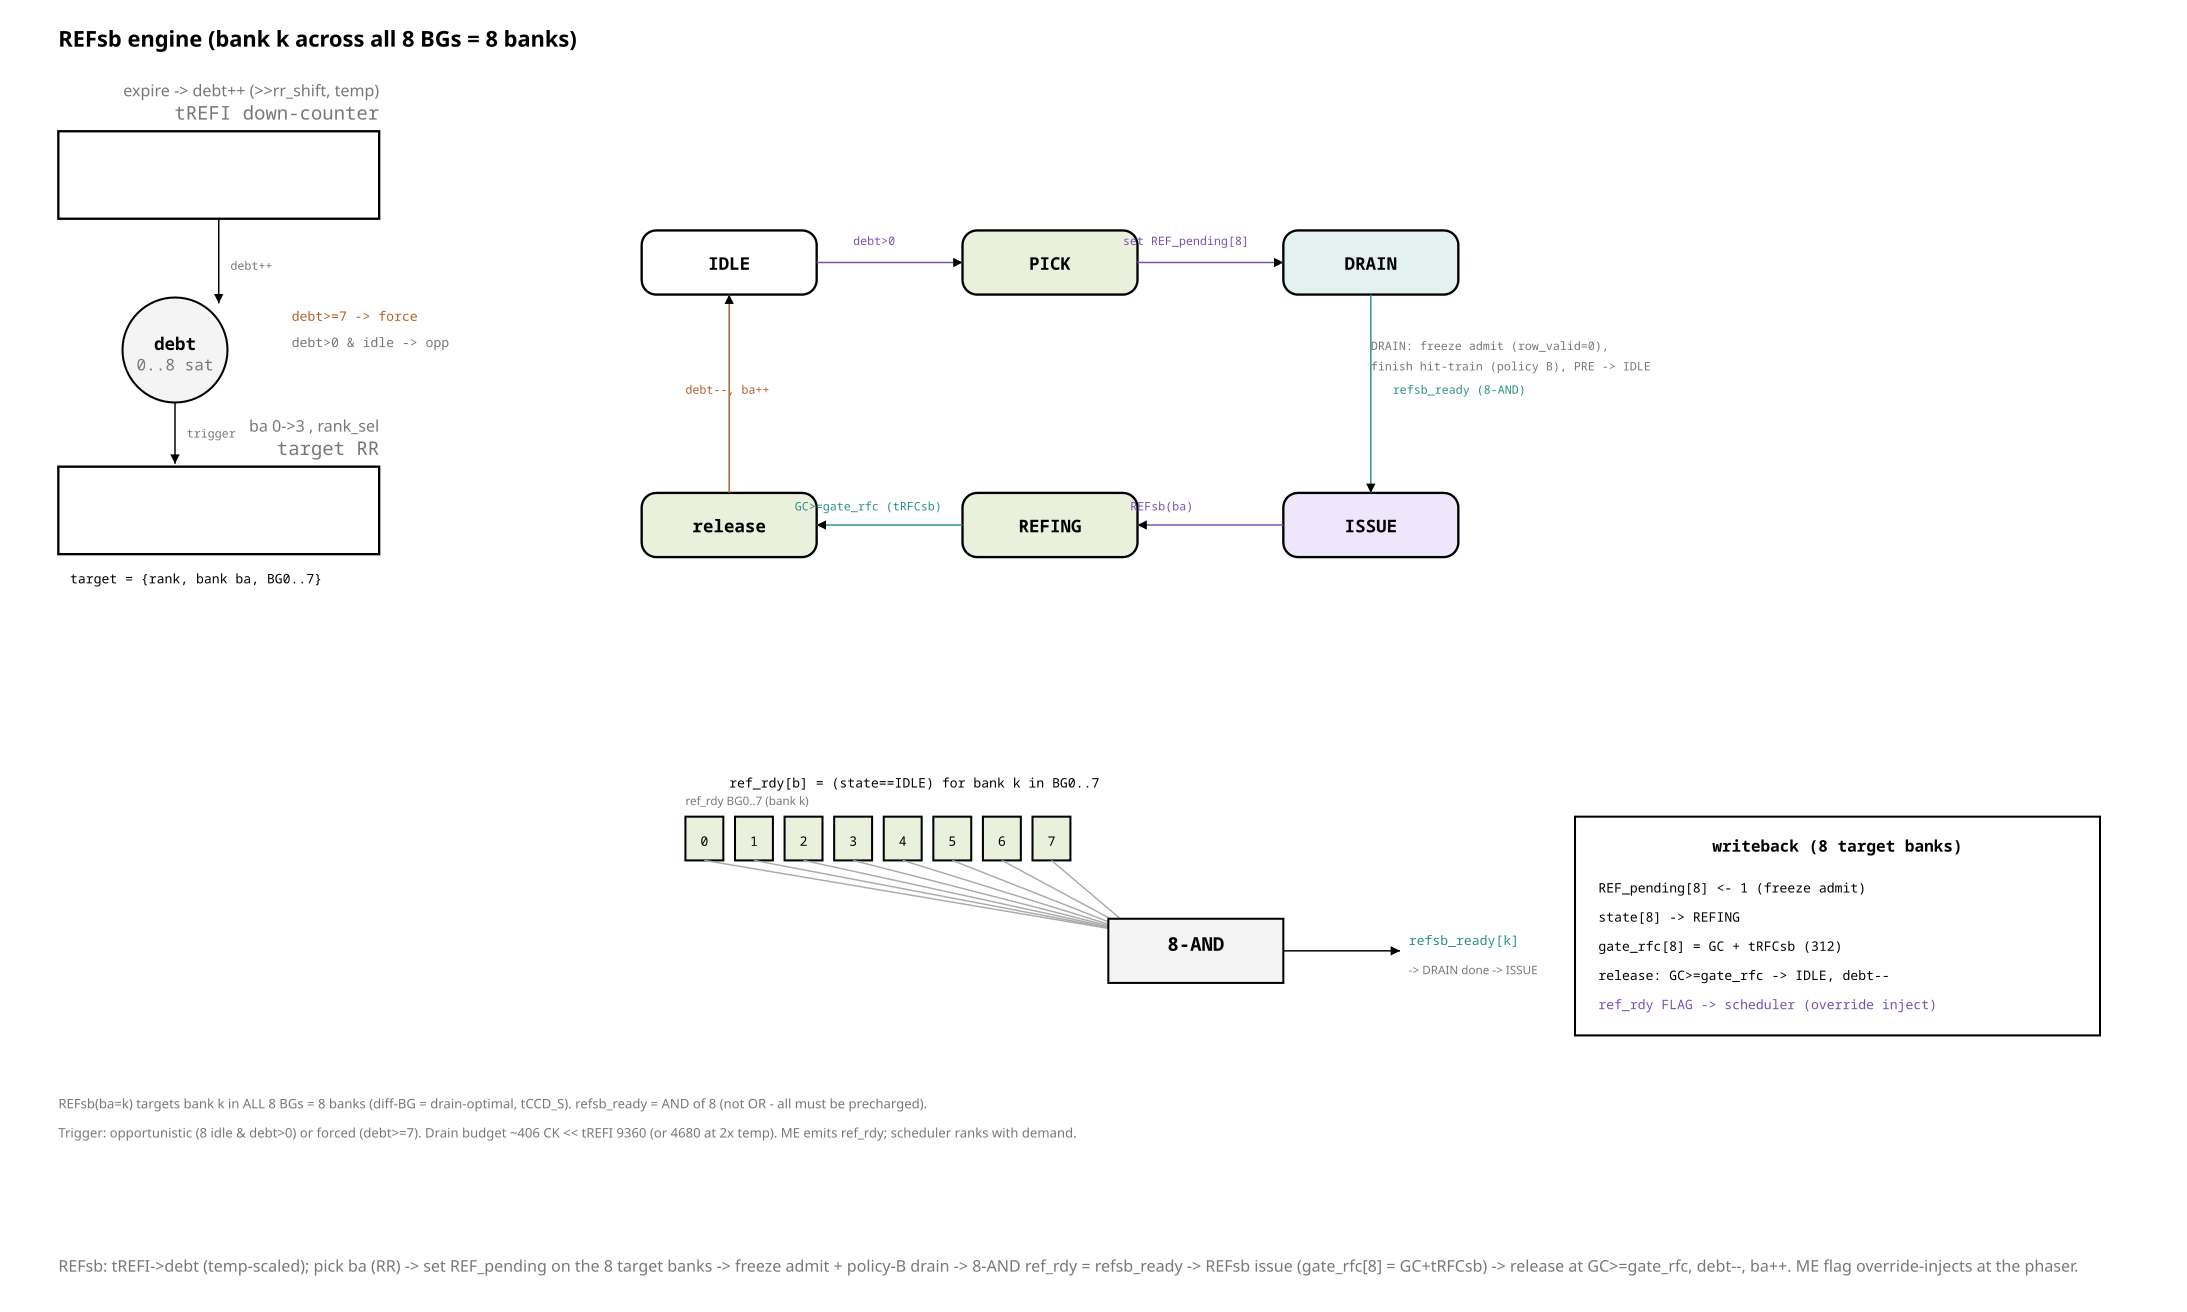
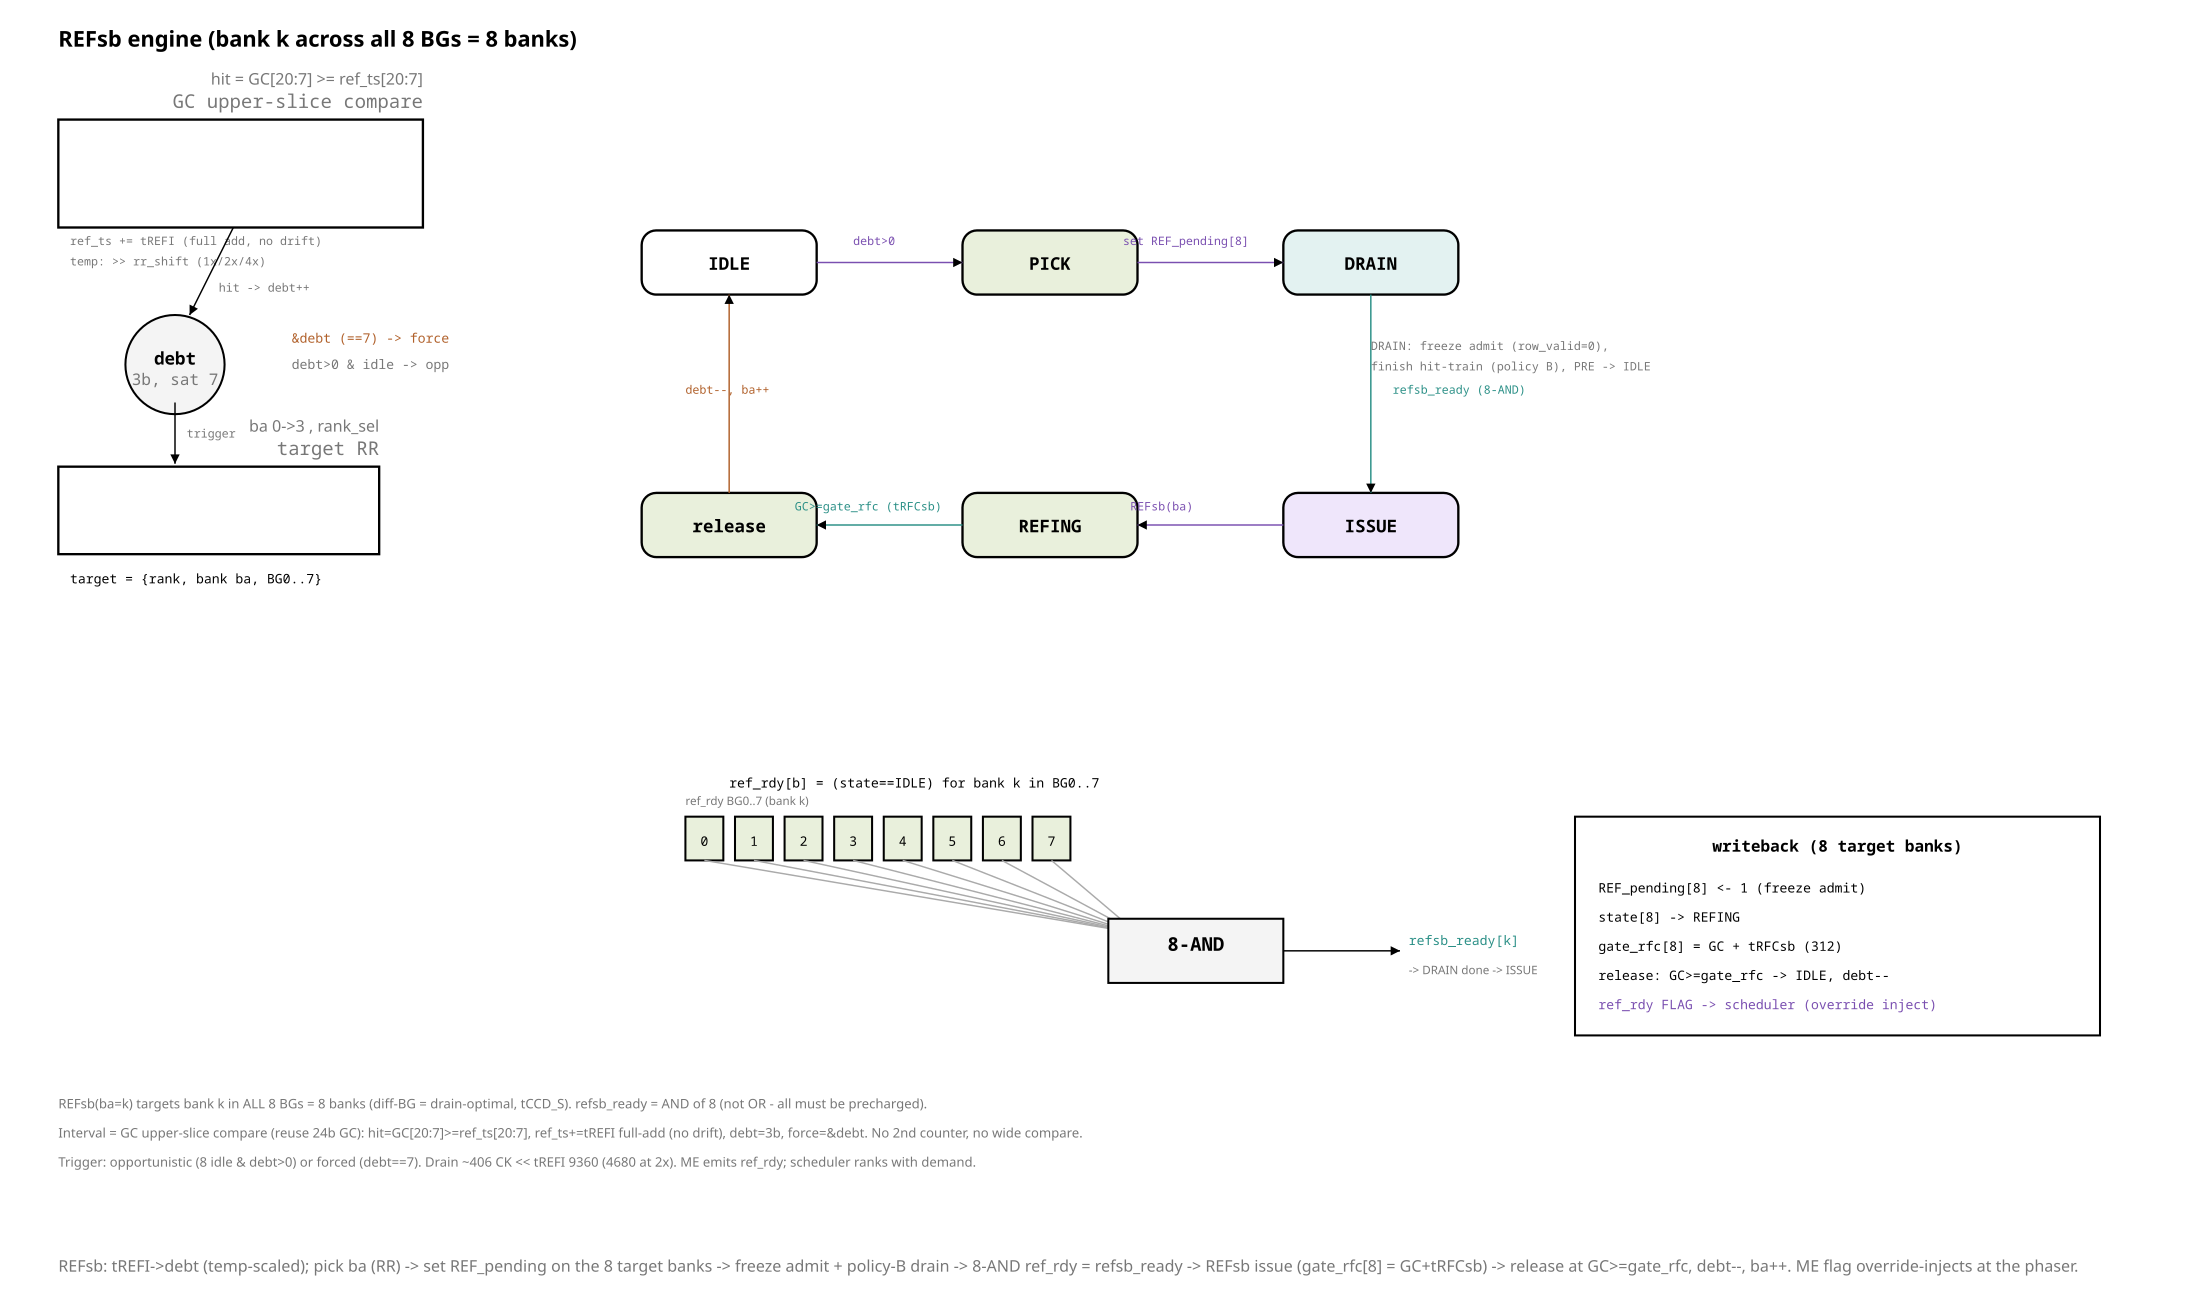
docs(refresh): GC upper-slice compare for tREFI interval
Refresh interval reuses 24b GC on upper bits (no 2nd counter, no wide compare):
hit = GC[20:7] >= ref_ts[20:7]; ref_ts += tREFI full-precision (no drift);
debt = 3b, force = &debt (==7). Temp scale = ref_ts += tREFI>>rr_shift.
Updated 20_timestamp_path.md + fig_65.

Claude-Session: https://claude.ai/code/session_01KeZpnsTmiABbSM1StVyWVX

diff --git a/docs/sched_rebuild/fig/fig_65_refsb_engine.py b/docs/sched_rebuild/fig/fig_65_refsb_engine.py
@@ -17,13 +17,15 @@ def state(cx, cy, name, fill=PAPER, w=120, h=44):
 f.text(40, 32, "REFsb engine  (bank k across all 8 BGs = 8 banks)", size=15,
        mono=False, bold=True)
 
-# ---------- left: interval + debt ----------
-f.block(40, 90, 220, 60, "tREFI down-counter", "expire -> debt++  (>>rr_shift, temp)")
-f.counter(120, 240, 36, "debt", "0..8 sat")
-f.line(150, 150, 150, 208, arrow=True)
-f.text(158, 185, "debt++", size=8, mono=True, fill=MUTED)
-f.text(200, 220, "debt>=7 -> force", size=9, mono=True, fill=ME)
-f.text(200, 238, "debt>0 & idle -> opp", size=9, mono=True, fill=MUTED)
+# ---------- left: GC-slice interval + debt ----------
+f.block(40, 82, 250, 74, "GC upper-slice compare", "hit = GC[20:7] >= ref_ts[20:7]")
+f.text(48, 168, "ref_ts += tREFI (full add, no drift)", size=8, mono=True, fill=MUTED)
+f.text(48, 182, "temp: >> rr_shift (1x/2x/4x)", size=8, mono=True, fill=MUTED)
+f.counter(120, 250, 34, "debt", "3b, sat 7")
+f.line(160, 156, 130, 216, arrow=True)
+f.text(150, 200, "hit -> debt++", size=8, mono=True, fill=MUTED)
+f.text(200, 235, "&debt (==7) -> force", size=9, mono=True, fill=ME)
+f.text(200, 253, "debt>0 & idle -> opp", size=9, mono=True, fill=MUTED)
 
 # target rotation
 f.block(40, 320, 220, 60, "target RR", "ba 0->3 , rank_sel")
@@ -93,8 +95,11 @@ f.text(1096, 692, "ref_rdy FLAG -> scheduler (override inject)", size=9, mono=Tr
 f.text(40, 760, "REFsb(ba=k) targets bank k in ALL 8 BGs = 8 banks (diff-BG = drain-optimal, "
         "tCCD_S). refsb_ready = AND of 8 (not OR - all must be precharged).", size=9,
         mono=False, fill=MUTED)
-f.text(40, 780, "Trigger: opportunistic (8 idle & debt>0) or forced (debt>=7). Drain budget "
-        "~406 CK << tREFI 9360 (or 4680 at 2x temp). ME emits ref_rdy; scheduler ranks with demand.",
+f.text(40, 780, "Interval = GC upper-slice compare (reuse 24b GC): hit=GC[20:7]>=ref_ts[20:7], "
+        "ref_ts+=tREFI full-add (no drift), debt=3b, force=&debt. No 2nd counter, no wide compare.",
+        size=9, mono=False, fill=MUTED)
+f.text(40, 800, "Trigger: opportunistic (8 idle & debt>0) or forced (debt==7). Drain ~406 CK << "
+        "tREFI 9360 (4680 at 2x). ME emits ref_rdy; scheduler ranks with demand.",
         size=9, mono=False, fill=MUTED)
 
 f.caption(40, 872,

diff --git a/docs/sched_rebuild/20_timestamp_path.md b/docs/sched_rebuild/20_timestamp_path.md
@@ -87,9 +87,20 @@ Deadlines/consts are all CK, so no /gear scaling and no shift in the compare.
 **One 24b counter, two compare widths (shared with refresh):**
 - **timestamp compare (can_*)** = low **13b** `GC[12:0]`. Max interval tRFC1=708 ≪ 2^12=4096 →
   wrap-safe. next_x stored 13b; `can_x = (GC[12:0] − next_x)[12]==0`.
-- **refresh interval / debt** = WIDE. tREFI=9360 > 4096 (can't 13b-wrap — why it was never in the
-  scoreboard); 8× postpone budget = 74880 CK. 24b wrap window = 2^23 = 8.4M → 112× headroom
-  (20b = only ~7×, too tight). So GC=24b kills the wrap-margin worry; refresh reads the wide slice.
+- **refresh interval = GC upper-slice compare (DECIDED).** Don't full-compare and don't add a
+  second free-running counter — reuse the 24b GC on its UPPER bits:
+  ```
+  ref_ts (24b deadline reg, full width for the add)
+  hit = ( GC[20:7] >= ref_ts[20:7] )        // narrow ~14b slice, subtract-MSB, 128-CK res
+  on hit:  debt <= debt + 1 (sat 7)          // 3-bit
+           ref_ts <= ref_ts + tREFI          // FULL-precision add (9360 / 4680 / 2340), NO drift
+  ref_pending = &debt                        // 3-input AND (debt==7 = force)
+  ```
+  Key: **add at full precision (exact tREFI), compare only the upper slice.** Rounding tREFI into
+  coarse units (73/36) drifts — instead keep ref_ts full width, the low bits carry, only the top
+  bits feed the comparator (refresh timing to 128-CK resolution is plenty). No wide comparator, no
+  extra counter, no drift. debt=3b (force at 7 keeps it under the 8-cap so 3 bits suffice).
+  Temp: `ref_ts += tREFI >> rr_shift` (1x/2x/4x, all exact integers).
 - **tRFC gate release** (tRFCsb=312 / tRFC1=708) ≤ 4096 → rides the 13b compare like a timestamp.
 - **phase_off:** adders take `GC_ph = GC + phase_off` (phase_off ∈ 0..gear−1) for sub-mc_clk CK
   resolution at gear>1; the compare is on `GC_ph[12:0]`.
